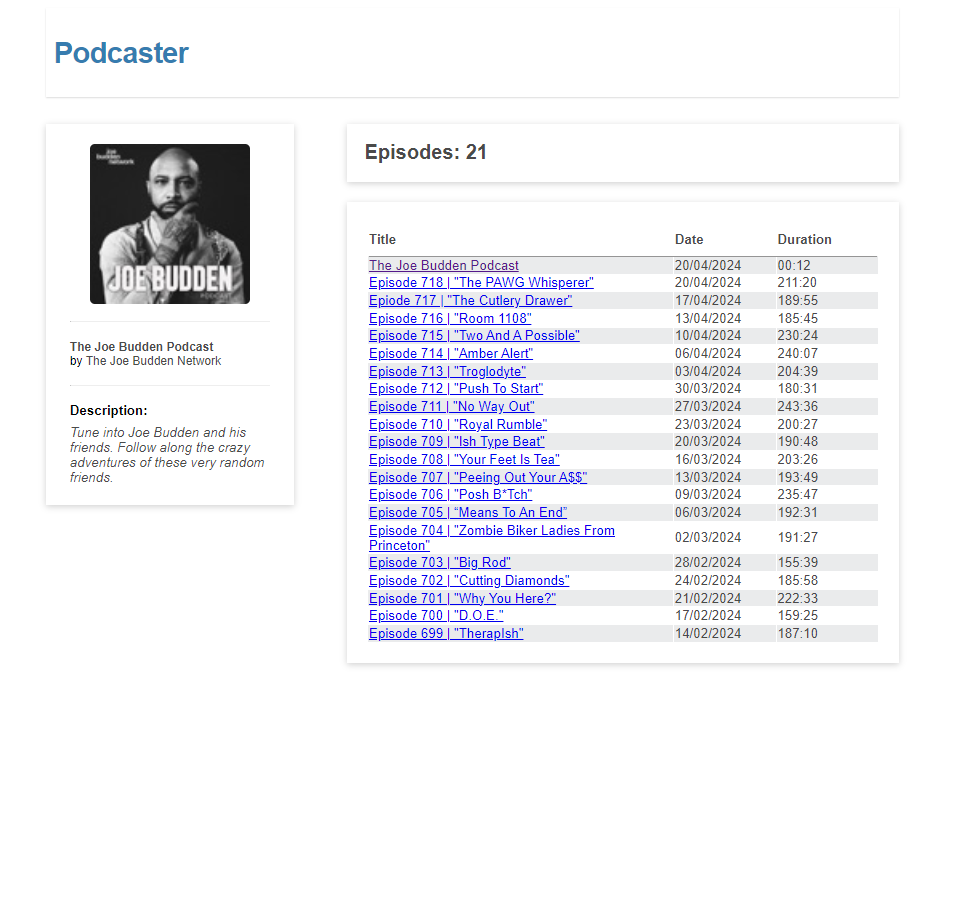
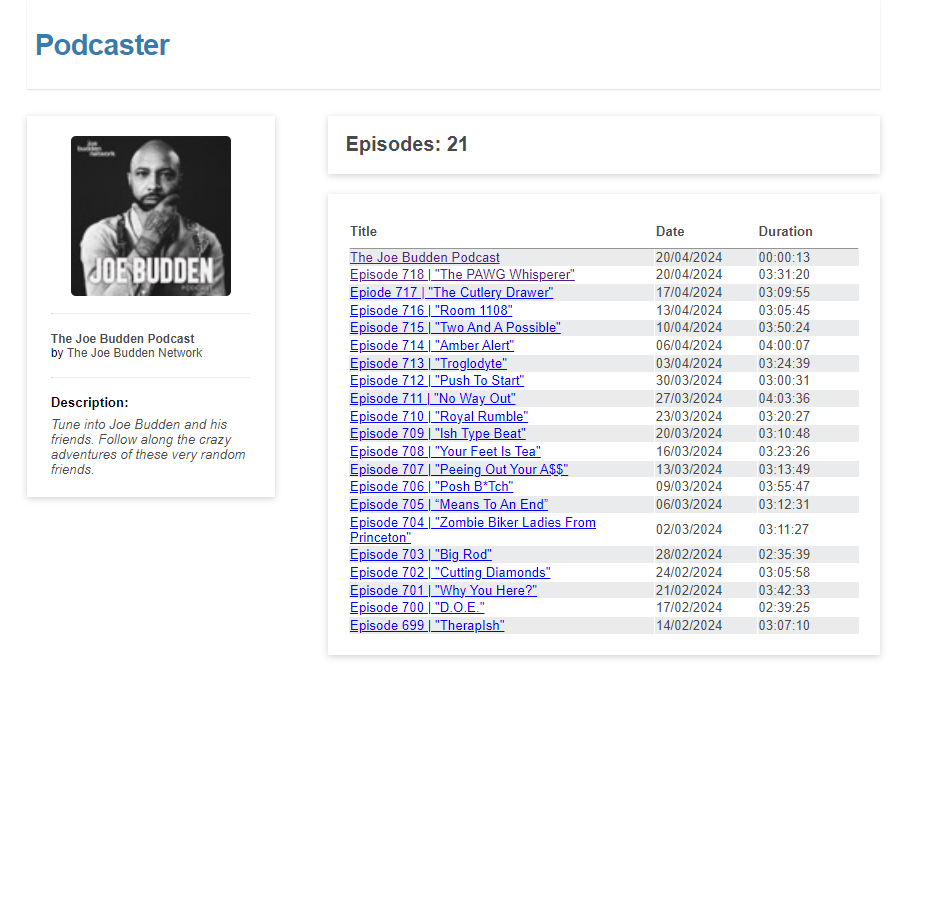
fix time formatter and screenshot

diff --git a/src/utils/dateFormatters.ts b/src/utils/dateFormatters.ts
@@ -1,21 +1,30 @@
+const formatDigits = (num: number) => (num < 10 ? `0${num}` : num);
+
 export const getFormattedDate = (date: Date | string): string => {
   const currentDate = new Date(date);
   const day = currentDate.getDate();
   const month = currentDate.getMonth() + 1;
 
-  return `${day < 10 ? `0${day}` : day}/${
-    month < 10 ? `0${month}` : month
-  }/${currentDate.getFullYear()}`;
+  return `${formatDigits(day)}/${formatDigits(
+    month
+  )}/${currentDate.getFullYear()}`;
 };
 
 export const getFormattedMinutes = (milliseconds: number): string => {
-  const totalSeconds = Math.trunc(milliseconds / 1000);
-  const minutes = Math.trunc(totalSeconds / 60);
-  const seconds = totalSeconds - minutes * 60;
+  let seconds = milliseconds / 1000;
 
-  return `${minutes < 10 ? `0${minutes}` : minutes}:${
-    seconds < 10 ? `0${seconds}` : seconds
-  }`;
+  const hours = parseInt(`${seconds / 3600}`); // 3,600 seconds in 1 hour
+  seconds = seconds % 3600; // seconds remaining after extracting hours
+  const minutes = parseInt(`${seconds / 60}`); // 60 seconds in 1 minute
+  seconds = Math.round(seconds % 60);
+
+  return (
+    formatDigits(hours) +
+    ":" +
+    formatDigits(minutes) +
+    ":" +
+    formatDigits(seconds)
+  );
 };
 
 export const isTimestampExpired = (timestamp: number) => {
